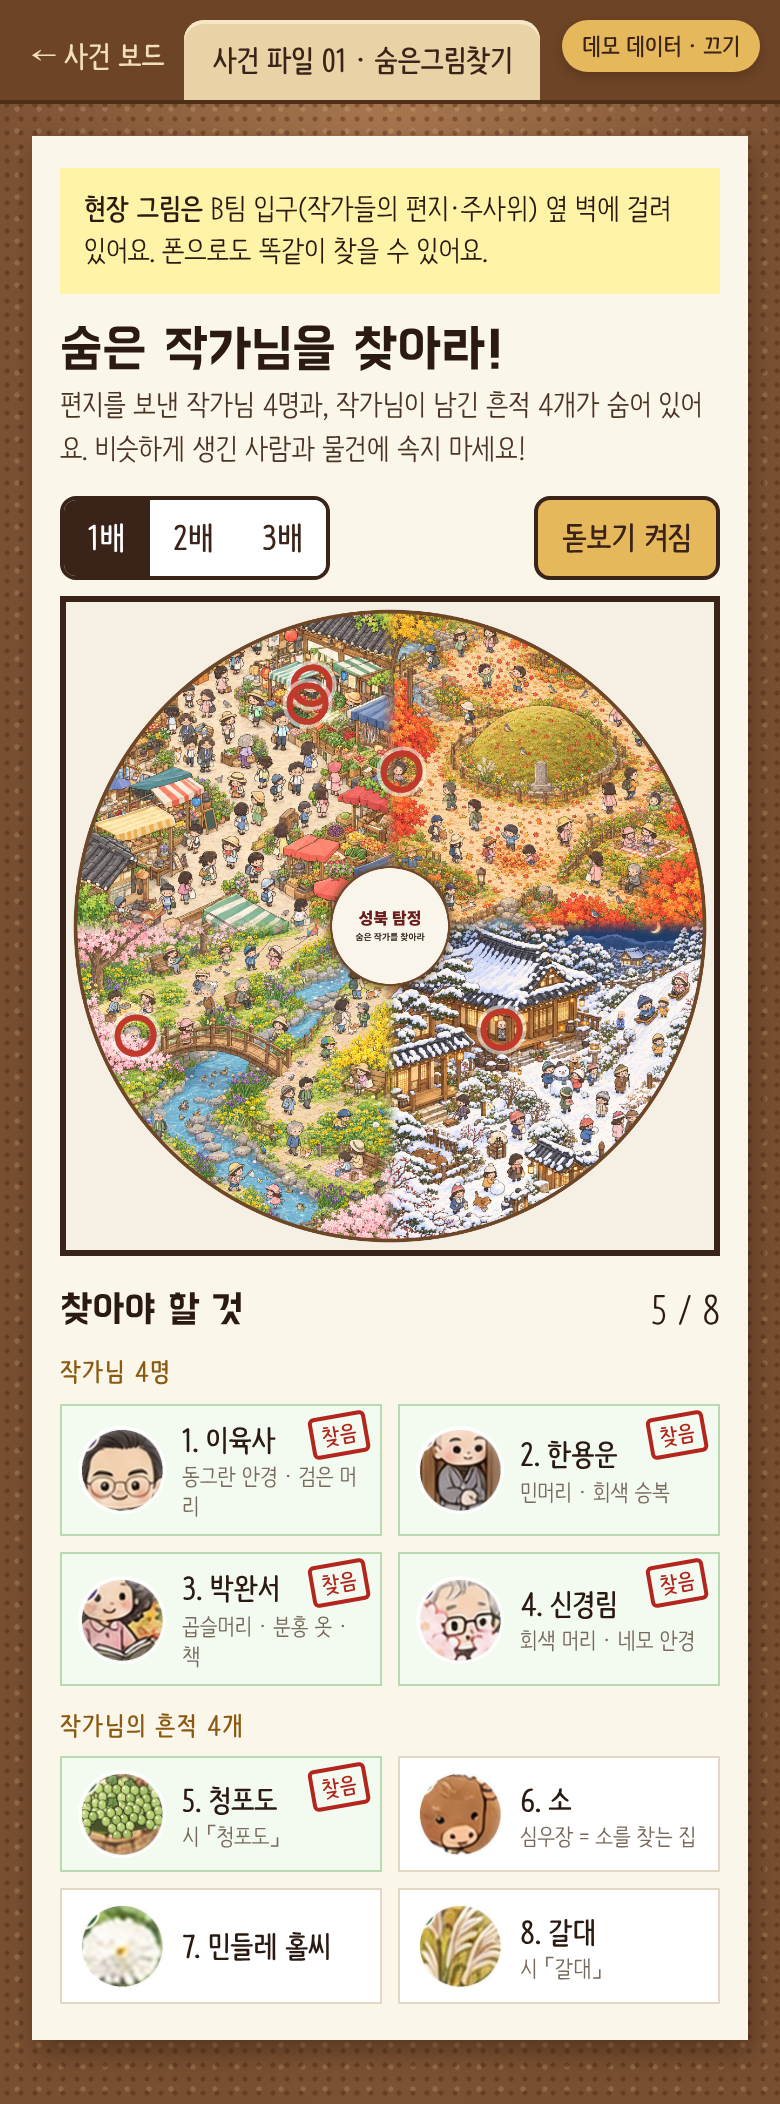
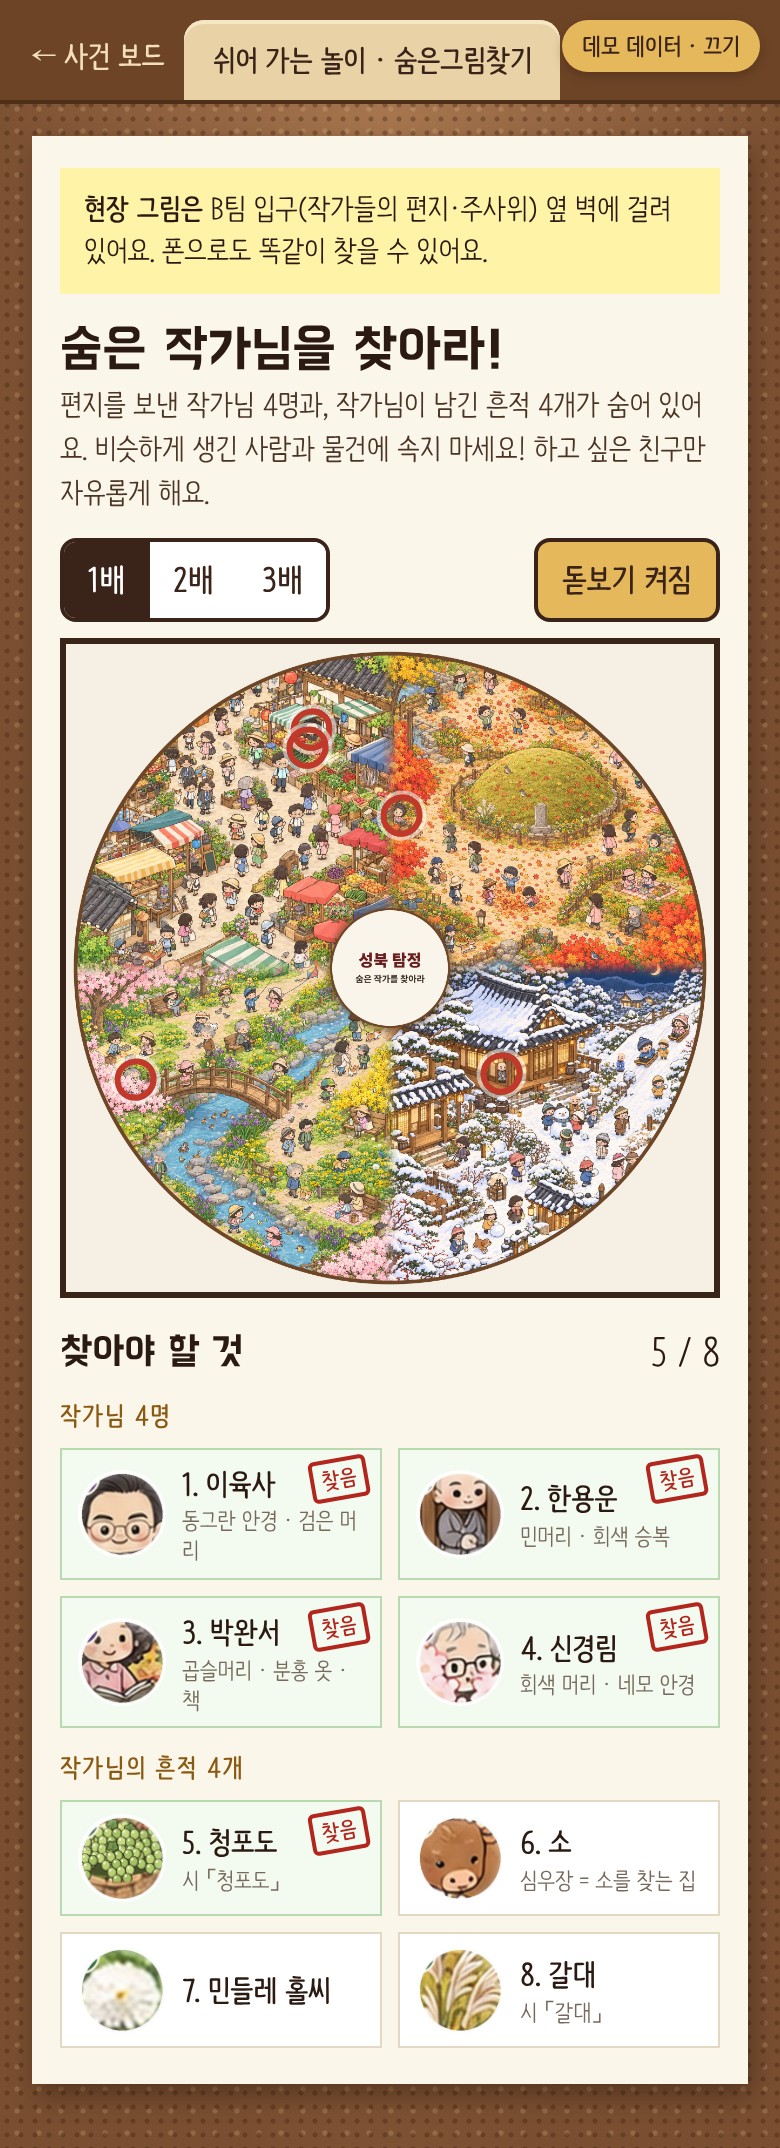
Quiz on detective rules and booth safety; hidden picture marked optional; exam-paper quiz UI
Claude-Session: https://claude.ai/code/session_01HunGVxXBvAEHjpVX5R3NVK

diff --git a/src/routes/(public)/quiz/+page.svelte b/src/routes/(public)/quiz/+page.svelte
@@ -22,30 +22,31 @@
 	function again() {
 		i = 0; picked = null; score = 0;
 	}
-	const title = $derived(score === QUIZ.length ? '퀴즈왕 탐정' : score >= 6 ? '눈썰미 탐정' : score >= 4 ? '꼼꼼한 탐정' : '씩씩한 견습 탐정');
+	const title = $derived(score === QUIZ.length ? '수칙 박사 탐정' : score >= 6 ? '눈썰미 탐정' : score >= 4 ? '꼼꼼한 탐정' : '씩씩한 견습 탐정');
 </script>
 
 
 {#if !finished}
-	<p class="muted tnum">{i + 1} / {QUIZ.length}</p>
-	<div class="card qcard">
-		<h2>{q.q}</h2>
+	<div class="paper qcard">
+		<div class="head"><span>신입 탐정 시험지</span><span class="tnum">{i + 1} / {QUIZ.length}</span></div>
+		<div class="bar"><i style="width:{((i + (picked !== null ? 1 : 0)) / QUIZ.length) * 100}%"></i></div>
+		<h2><span class="no">{i + 1}.</span> {q.q}</h2>
 		<div class="opts">
 			{#each q.options as o, n}
-				<button class:right={picked !== null && n === q.answer} class:wrong={picked === n && n !== q.answer} disabled={picked !== null && picked !== n && n !== q.answer} onclick={() => pick(n)}>{o}</button>
+				<button data-n={"①②③④"[n]} class:right={picked !== null && n === q.answer} class:wrong={picked === n && n !== q.answer} disabled={picked !== null && picked !== n && n !== q.answer} onclick={() => pick(n)}>{o}</button>
 			{/each}
 		</div>
 		{#if picked !== null}
-			<p class="why"><b>{picked === q.answer ? '정답!' : '아쉬워요!'}</b> {q.why}</p>
+			<p class="why"><span class="mark" class:x={picked !== q.answer}>{picked === q.answer ? "○" : "✕"}</span><b>{picked === q.answer ? '정답!' : '아쉬워요!'}</b> {q.why}</p>
 			<button class="btn primary" onclick={next}>{i + 1 === QUIZ.length ? '결과 보기' : '다음 문제'}</button>
 		{/if}
 	</div>
 {:else}
-	<div class="result">
-		<p class="kicker">탐정 퀴즈 결과</p>
+	<div class="paper result">
+		<p class="kicker">신입 탐정 시험 결과</p>
 		<p class="score tnum">{score} / {QUIZ.length}</p>
 		<h2>{title}</h2>
-		<p>단서를 잘 살폈어요! 이제 진짜 사건을 해결하러 가 볼까요?</p>
+		<p>수칙을 잘 알고 있네요! 안전하게 사건을 해결하러 가 볼까요?</p>
 		<div class="row">
 			<button class="btn" onclick={again}>다시 풀기</button>
 			<a class="btn primary" href="/status">지금 부스 보기</a>
@@ -54,19 +55,28 @@
 {/if}
 
 <style>
-	.qcard h2 { font-size: 21px; margin-bottom: 14px; }
+	.paper { position: relative; margin-top: 14px; background: #fffdf6 repeating-linear-gradient(180deg, transparent 0 31px, #dbe6f2 31px 32px); border-left: 3px solid #f0b6b0; padding: 18px 16px 18px 20px; box-shadow: 0 6px 16px rgba(0, 0, 0, 0.35); transform: rotate(-0.6deg); }
+	.head { display: flex; justify-content: space-between; font-family: var(--display); color: #8a5a2b; font-size: 15px; letter-spacing: 0.06em; }
+	.bar { height: 5px; background: #eadfca; border-radius: 3px; margin: 8px 0 14px; overflow: hidden; }
+	.bar i { display: block; height: 100%; background: #2f6e3c; transition: width 0.3s; }
+	.qcard h2 { font-size: 21px; line-height: 1.4; margin: 0 0 14px; color: #2b1b12; word-break: keep-all; }
+	.no { color: #b3261e; }
 	.opts { display: grid; gap: 8px; }
-	.opts button { text-align: left; padding: 14px; border-radius: 12px; border: 2px solid var(--line); background: #fff; font-weight: 700; color: var(--ink); font-size: 17px; }
-	.opts button.right { border-color: #2f7d40; background: #eaf4e6; color: #2f6e3c; }
-	.opts button.wrong { border-color: #c0392b; background: #fbe9e7; color: #a5281b; }
-	.opts button:disabled { opacity: 0.45; }
-	.why { background: var(--tint); border-radius: 10px; padding: 10px 12px; }
-	.qcard .btn { margin-top: 4px; }
-	.result { background: #3a2318; color: #f6e9cf; border-radius: 18px; padding: 24px 20px; text-align: center; margin-top: 10px; }
-	.kicker { margin: 0; color: #e6b85c; font-weight: 700; letter-spacing: 0.1em; font-size: 13px; }
-	.score { font-family: var(--display); font-size: 54px; margin: 6px 0 0; color: #fff; }
-	.result h2 { color: #e6b85c; font-size: 26px; }
+	.opts button { position: relative; text-align: left; padding: 12px 14px 12px 42px; border-radius: 6px; border: 1.5px solid #d9ccb4; background: #fff; color: #2b1b12; font-family: var(--body); font-size: 18px; }
+	.opts button::before { content: attr(data-n); position: absolute; left: 14px; top: 50%; transform: translateY(-50%); color: #8a5a2b; font-size: 18px; }
+	.opts button.right { border-color: #2f7d40; background: #eef6ea; }
+	.opts button.right::after { content: ''; position: absolute; left: 6px; top: 50%; width: 30px; height: 30px; transform: translateY(-50%); border: 3px solid #c0392b; border-radius: 50%; }
+	.opts button.wrong { border-color: #c0392b; background: #fbeeec; text-decoration: line-through; text-decoration-color: #c0392b; }
+	.opts button:disabled { opacity: 0.4; }
+	.why { position: relative; background: #fff6d6; border-radius: 4px; padding: 10px 12px 10px 44px; margin: 14px 0 10px; font-size: 16px; line-height: 1.5; word-break: keep-all; }
+	.mark { position: absolute; left: 10px; top: 4px; font-size: 26px; color: #c0392b; font-weight: 700; }
+	.why b { margin-right: 4px; }
+	.qcard .btn { width: 100%; }
+	.result { text-align: center; padding: 24px 20px; }
+	.kicker { margin: 0; color: #8a5a2b; font-family: var(--display); letter-spacing: 0.1em; font-size: 14px; }
+	.score { display: inline-block; font-family: var(--display); font-size: 52px; margin: 10px 0 4px; color: #b3261e; border: 4px solid #b3261e; border-radius: 50%; padding: 6px 18px; transform: rotate(-8deg); }
+	.result h2 { color: #2b1b12; font-size: 26px; margin: 6px 0; }
+	.result p { word-break: keep-all; }
 	.row { display: flex; gap: 8px; justify-content: center; margin-top: 12px; flex-wrap: wrap; }
 	.row .btn { text-decoration: none; }
-	.result .btn.primary { background: #e6b85c; border-color: #e6b85c; color: #3a2318; }
 </style>

diff --git a/src/lib/public.ts b/src/lib/public.ts
@@ -23,12 +23,12 @@ export const PUBLIC_STATUS: Record<Status, { label: string; tone: 'ok' | 'busy' 
 
 export type Q = { q: string; options: string[]; answer: number; why: string };
 export const QUIZ: Q[] = [
-	{ q: '탐정이 작은 단서를 크게 보려고 쓰는 도구는?', options: ['국자', '돋보기', '주사위', '볼풀공'], answer: 1, why: '돋보기로 보면 작은 글씨와 흔적도 잘 보여요.' },
-	{ q: '신입 탐정 수칙 첫 번째는 무엇일까요?', options: ['빨리 뛰기', '큰 소리 내기', '천천히 움직이기', '혼자 다니기'], answer: 2, why: '탐정은 뛰지 않아요! 주변을 살피며 안전하게 움직여요.' },
-	{ q: '다다랜드가 열리는 이곳은 서울의 어느 구일까요?', options: ['마포구', '성북구', '강남구', '송파구'], answer: 1, why: '다다랜드는 서울 성북구에서 열려요.' },
-	{ q: '셜록 홈즈가 쓴 것으로 유명한, 앞뒤로 챙이 달린 체크무늬 모자는?', options: ['사냥 모자', '야구 모자', '왕관', '헬멧'], answer: 0, why: '앞뒤로 챙이 있는 사냥 모자(디어스토커)예요. 오늘 탐정 그림에도 나와요!' },
-	{ q: '다른 탐정이 활동하고 있을 때 신입 탐정은 어떻게 할까요?', options: ['새치기한다', '차례를 기다린다', '도구를 가져간다', '대신 풀어 준다'], answer: 1, why: '수칙 둘! 동료 탐정을 배려하고 차례를 지켜요.' },
-	{ q: '작가들의 보물상자를 열려면 무엇이 필요할까요?', options: ['열쇠', '연필', '지도', '스티커'], answer: 0, why: '스쿱마켓이나 볼풀마당에서 열쇠를 찾아 보물상자를 열어요.' },
-	{ q: '탐정이 사건을 풀 때 가장 중요한 것은?', options: ['단서를 꼼꼼히 살피기', '아무거나 고르기', '먼저 끝내기', '포기하기'], answer: 0, why: '단서를 꼼꼼히 보고, 왜 그렇게 생각했는지 말할 수 있어야 해요.' },
-	{ q: '어려운 일이 생기면 신입 탐정은 누구를 부를까요?', options: ['아무도 안 부른다', '운영요원', '볼풀공', '주사위'], answer: 1, why: '수칙 넷! 도움이 필요하면 운영요원을 불러요.' }
+	{ q: '신입 탐정 수칙 하나! 다다랜드에서는 어떻게 움직일까요?', options: ['신나게 뛰어다닌다', '천천히 움직인다', '친구를 밀며 간다', '눈 감고 걷는다'], answer: 1, why: '탐정은 뛰지 않아요. 주변을 살피며 천천히, 안전하게!' },
+	{ q: '다른 탐정이 먼저 하고 있을 때는 어떻게 할까요?', options: ['새치기한다', '차례를 기다린다', '도구를 뺏는다', '대신 풀어 준다'], answer: 1, why: '수칙 둘! 동료 탐정을 배려하고 차례를 지켜요.' },
+	{ q: '부스에 있는 탐정 도구(돋보기, 국자, 열쇠)는 어떻게 다룰까요?', options: ['집에 가져간다', '던지며 논다', '소중히 쓰고 제자리에', '숨겨 둔다'], answer: 2, why: '수칙 셋! 다음 탐정도 쓸 수 있게 소중히 다루고 제자리에 둬요.' },
+	{ q: '볼풀마당에 들어갈 때 꼭 지킬 것은?', options: ['신발 신고 들어가기', '신발 벗고 들어가기', '공 밖으로 던지기', '다이빙하기'], answer: 1, why: '신발을 벗고 들어가요. 다이빙은 위험하니 절대 안 돼요!' },
+	{ q: '볼풀마당에는 한 번에 몇 명까지 들어갈 수 있을까요?', options: ['1명', '3명', '10명', '마음대로'], answer: 1, why: '친구들과 부딪히지 않게 한 번에 3명까지만 들어가요.' },
+	{ q: '비즈 책갈피를 만들 때 가위가 필요하면?', options: ['혼자 찾아서 쓴다', '친구 것을 가져간다', '운영요원에게 부탁한다', '이로 끊는다'], answer: 2, why: '가위는 운영요원이 관리해요. 필요하면 말해 주세요.' },
+	{ q: '부스에 사람이 많아 오래 기다려야 하면?', options: ['그냥 집에 간다', '탐정 대기 명단에 내 이름을 쓴다', '앞사람을 민다', '큰 소리로 재촉한다'], answer: 1, why: '대기 명단에 직접 이름을 쓰고, 다른 곳을 둘러보다 오면 돼요.' },
+	{ q: '길을 잃거나 도움이 필요하면 누구를 부를까요?', options: ['아무도 안 부른다', '운영요원', '볼풀공', '주사위'], answer: 1, why: '수칙 넷! 탐정 명찰을 단 운영요원을 불러 주세요.' }
 ];

diff --git a/src/routes/(public)/+page.svelte b/src/routes/(public)/+page.svelte
@@ -52,10 +52,10 @@
 		<a class="envelope" href="/hidden" data-string="2">
 			<Pin color="#2d5aa8" />
 			<span class="flap"></span>
-			<span class="label">사건 파일 01</span>
+			<span class="label">쉬어 가는 놀이</span>
 			<strong>숨은그림찾기</strong>
-			<span class="small">B팀 입구 옆 벽의 큰 그림,<br />폰으로도 찾을 수 있어요</span>
-			<span class="stamp">폰으로 OK</span>
+			<span class="small">기다리는 동안 해 봐요.<br />꼭 안 해도 괜찮아요!</span>
+			<span class="stamp">자유 참여</span>
 		</a>
 
 		<!-- 3. 시험지 -->
@@ -63,7 +63,7 @@
 			<Pin color="#2f6e3c" />
 			<span class="clip"></span>
 			<span class="label">신입 탐정 시험</span>
-			<ol><li>돋보기는 어디에 쓸까?</li><li>탐정 수칙 하나는?</li><li>보물상자를 열려면?</li></ol>
+			<ol><li>탐정 수칙 하나는?</li><li>볼풀에는 몇 명까지?</li><li>차례가 밀리면?</li></ol>
 			<span class="go">8문제 풀기 →</span>
 		</a>
 	</div>

diff --git a/src/routes/(public)/+layout.svelte b/src/routes/(public)/+layout.svelte
@@ -2,7 +2,7 @@
 	import { page } from '$app/state';
 	let { children } = $props();
 	const isHome = $derived(page.url.pathname === '/');
-	const titles: Record<string, string> = { '/hidden': '사건 파일 01 · 숨은그림찾기', '/quiz': '신입 탐정 시험', '/badge': '신입 탐정 임명장', '/status': '현장 무전 기록' };
+	const titles: Record<string, string> = { '/hidden': '쉬어 가는 놀이 · 숨은그림찾기', '/quiz': '신입 탐정 시험', '/badge': '신입 탐정 임명장', '/status': '현장 무전 기록' };
 	const title = $derived(titles[page.url.pathname] ?? '');
 </script>
 

diff --git a/src/routes/(public)/hidden/+page.svelte b/src/routes/(public)/hidden/+page.svelte
@@ -135,8 +135,8 @@
 
 	{#if done}
 		<div class="solved">
-			<span class="stampbig">사건 해결</span>
-			<p>모두 찾았어요! 현장 그림 앞에 있는 운영요원에게 이 화면을 보여주세요.</p>
+			<span class="stampbig">다 찾았다</span>
+			<p>모두 찾았어요! 눈썰미 최고 탐정이에요.</p>
 			<button class="link" onclick={reset}>처음부터 다시</button>
 		</div>
 	{/if}

diff --git a/README.md b/README.md
@@ -24,10 +24,10 @@
 
 **참여자**
 - **사건 보드 홈** — 흔한 카드 목록 대신 탐정 사무소 코르크 보드로 만들었어요. 지도·사건 봉투·시험지·무전 기록·탐정증이 핀으로 꽂혀 있고, 빨간 실이 실제 요소 위치를 따라 이어져요(ResizeObserver로 다시 계산). 레퍼런스: 게임 *Shadows of Doubt*의 사건 보드, 박물관 미스터리 트레일.
-- **숨은그림찾기** — 현장 현수막(1.8m 원형 그림)을 폰에서도 할 수 있어요. 1·2·3배 확대와 돋보기 렌즈, 가장 가까운 정답 판정, 찾은 항목에 도장. 정답 좌표는 현수막의 거꾸로 인쇄된 정답지에서 옮겨 왔고, `?edit`로 현장에서 다시 찍을 수 있어요.
+- **숨은그림찾기 (자유 참여)** — 기다리는 동안 하는 선택 놀이. 현장 현수막(1.8m 원형 그림)을 폰에서도 할 수 있어요. 1·2·3배 확대와 돋보기 렌즈, 가장 가까운 정답 판정, 찾은 항목에 도장. 정답 좌표는 현수막의 거꾸로 인쇄된 정답지에서 옮겨 왔고, `?edit`로 현장에서 다시 찍을 수 있어요.
 - **실시간 혼잡도** — 운영요원이 부스에서 누른 상태(보통 / 대기 많음 / 도움 필요)가 참여자에게는 “바로 할 수 있어요 / 조금 기다려요”로 보여요. 보호자가 덜 붐비는 팀을 골라 가면서 대기가 자연스럽게 분산돼요.
 - **공간 배치도** — 피그마 배치 초안을 SVG로 다시 그렸어요. 현장 치수가 바뀌어도 동선은 같아서 좌표만 고치면 돼요. 부스 상태가 점으로 겹쳐 보여요.
-- **탐정 퀴즈** — 대기 시간용 8문항. 게임 정답은 스포일러가 되지 않게 뺐어요.
+- **신입 탐정 시험** — 탐정 수칙과 부스 안전 수칙(볼풀 3명·신발 벗기, 가위는 운영요원, 대기 명단)을 8문항 퀴즈로. 게임 정답은 스포일러가 되지 않게 뺐어요.
 - **신입 탐정 임명장** — 이름을 넣으면 Canvas로 1080×1350 임명장을 그려 저장·공유해요. 번호는 서버에서 발급되지만 **이름은 서버로 보내지 않아요.** 탐정수첩 일러스트를 potrace로 벡터화해 `Path2D`로 그려서 어떤 해상도에서도 선명해요.
 
 **운영요원**
@@ -92,5 +92,5 @@ npm run dev            # http://localhost:5173/?demo 로 데모 데이터 확인
   <img src="docs/screenshots/staff-booth.png" width="200" alt="부스 상세">
   <img src="docs/screenshots/public-hidden.png" width="200" alt="숨은그림찾기">
   <img src="docs/screenshots/public-status.png" width="200" alt="현장 무전">
-  <img src="docs/screenshots/public-quiz.png" width="200" alt="탐정 퀴즈">
+  <img src="docs/screenshots/public-quiz.png" width="200" alt="신입 탐정 시험">
 </p>
